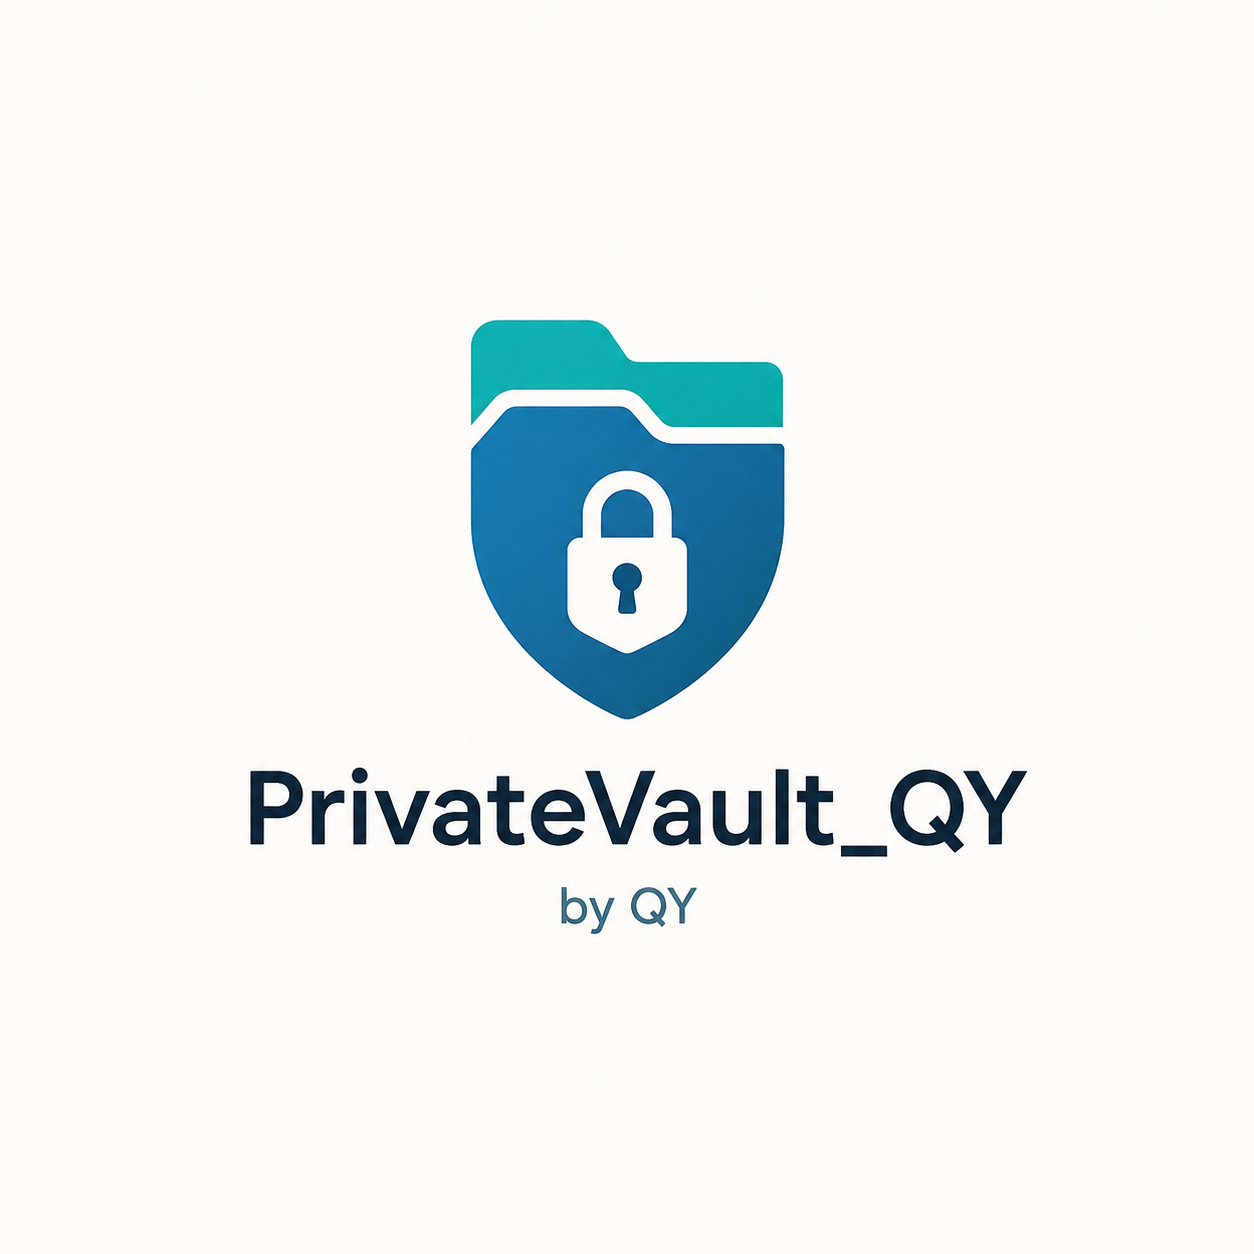
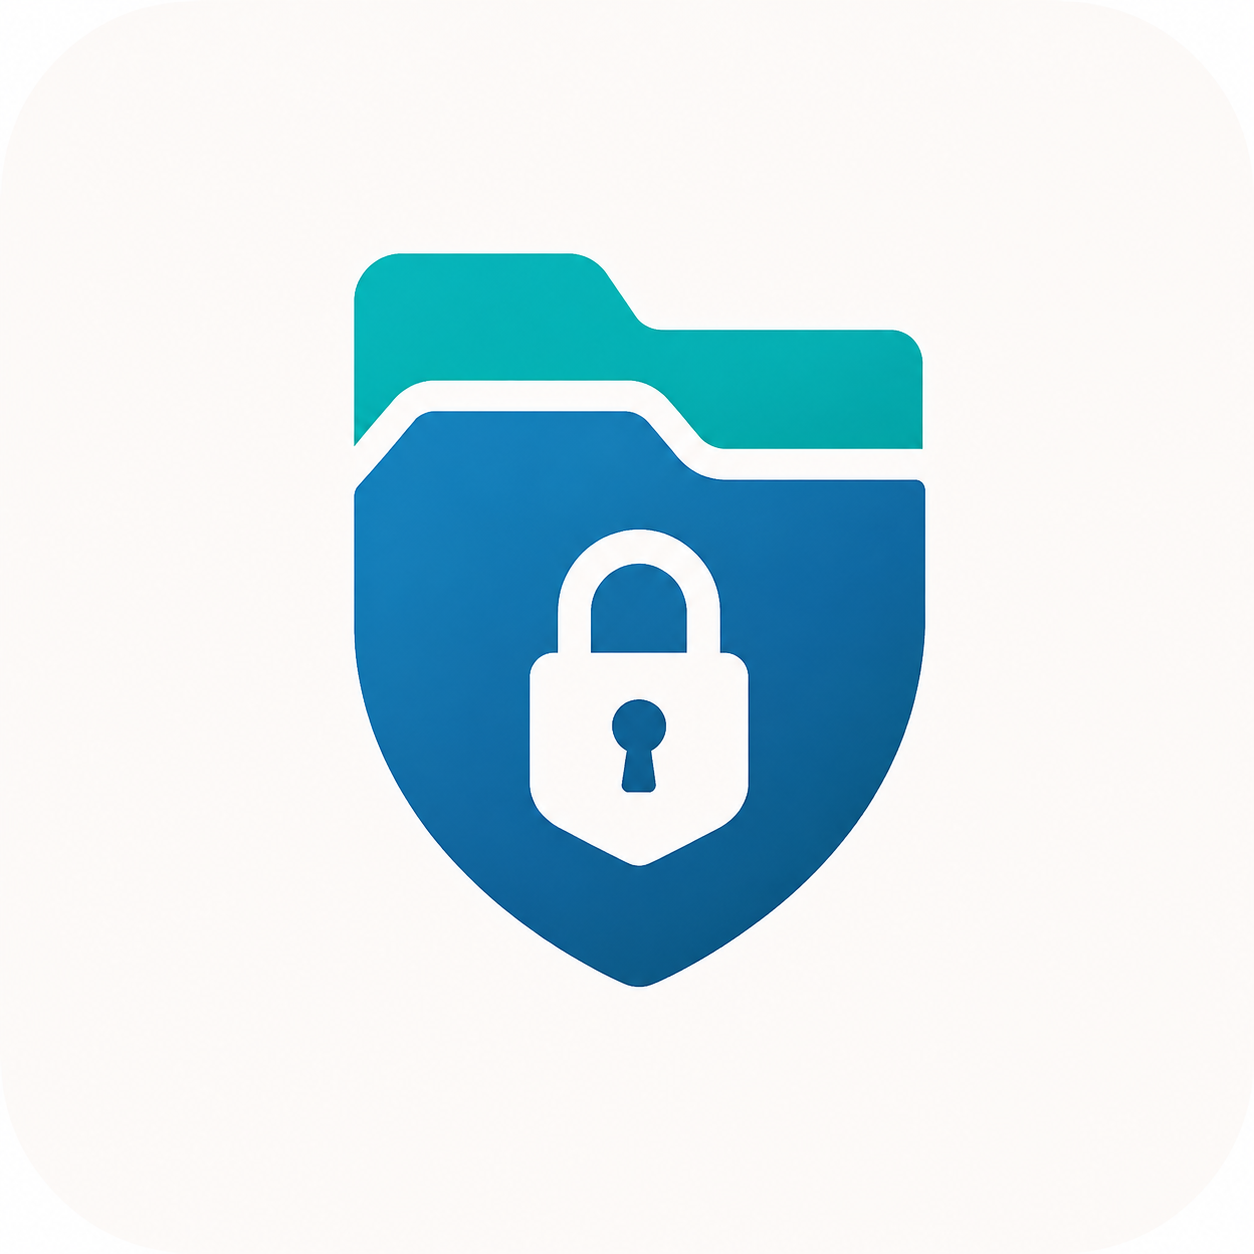
Refresh README and settings metadata

Changed region(s): [[0.1866, 0.1866, 0.8086, 0.8086]]

diff --git a/app/src/main/java/com/privatevault/ui/PrivateVaultApp.kt b/app/src/main/java/com/privatevault/ui/PrivateVaultApp.kt
@@ -1258,6 +1258,25 @@ private fun SettingsScreen() {
         MetadataCard(title = "系统应用锁", lines = listOf("本应用不内置 PIN。请在系统设置中启用应用锁、隐私锁或生物识别保护。"))
         MetadataCard(title = "安全边界", lines = listOf("当前版本使用 App 私有目录，不承诺文件级加密。"))
         MetadataCard(title = "截图", lines = listOf("后续可通过窗口安全标记禁止系统截图。"))
+
+        Spacer(modifier = Modifier.weight(1f))
+
+        Column(
+            horizontalAlignment = Alignment.CenterHorizontally,
+            modifier = Modifier.fillMaxWidth(),
+            verticalArrangement = Arrangement.spacedBy(4.dp)
+        ) {
+            Text(
+                text = "PrivateVault",
+                style = MaterialTheme.typography.bodyMedium,
+                color = MaterialTheme.colorScheme.onSurface.copy(alpha = 0.54f)
+            )
+            Text(
+                text = "作者 秋漾",
+                style = MaterialTheme.typography.bodySmall,
+                color = MaterialTheme.colorScheme.onSurface.copy(alpha = 0.38f)
+            )
+        }
     }
 }
 

diff --git a/README.md b/README.md
@@ -1,89 +1,158 @@
-<p align="center">
-  <img src="screenshots/1.jpg" width="200" />
-  <img src="screenshots/2.jpg" width="200" />
-  <img src="screenshots/3.jpg" width="200" />
-  <img src="screenshots/4.jpg" width="200" />
-</p>
+## Screenshots
 
-# PrivateVault
+<table>
+  <tr>
+    <td align="center" width="50%">
+      <img src="README.assets/1.jpg" width="300" />
+      <br />
+      <sub>片库管理</sub>
+    </td>
+    <td align="center" width="50%">
+      <img src="README.assets/2.jpg" width="300" />
+      <br />
+      <sub>收藏</sub>
+    </td>
+  </tr>
+  <tr>
+    <td align="center" width="50%">
+      <img src="README.assets/3.jpg" width="300" />
+      <br />
+      <sub>片库详情</sub>
+    </td>
+    <td align="center" width="50%">
+      <img src="README.assets/4.jpg" width="300" />
+      <br />
+      <sub>设置</sub>
+    </td>
+  </tr>
+</table>
 
-**你的手机相册，由你决定谁能看。**
 
-> 一个完全离线的 Android 私密媒体管理器——不注册、不联网、不存云端。
-> 把不想出现在相册里的内容放到这里，像管理私人片库一样整理它。
+
+
+# PrivateVault_QY
+
+**一个本地优先的 Android 私密媒体库。**
+
+> PrivateVault_QY 是一个完全离线的 Android 私密媒体管理器。
+> 它可以将你选中的图片迁移到 App 私有目录，并支持媒体库、标签、收藏、备注、搜索和导出。
+> 无账号、无云端、无服务器，数据只保存在你的设备本地。
 
 ---
 
 ## 为什么做这个
 
-手机相册是一个"公共区域"——借手机、投屏、分享截图时，总有一些内容你不想被看到。
+手机系统相册更像一个“公共区域”。
 
-PrivateVault 给你一个**真正私密的第二相册**。图片复制到 App 内部私有目录后，你可以选择**从系统相册中彻底删除原图**——相册干净了，内容也还安全地留在你的手机里。
+借手机、投屏、分享截图、选择图片时，总有一些内容你不希望直接暴露在系统相册里。
+
+PrivateVault_QY 提供一个本地私密空间：你可以将选中的图片复制到 App 内部私有目录，并在确认导入成功后选择从系统相册中移除原图。
+
+这样，系统相册保持干净，私密内容仍然保存在你的手机本地。
 
 ---
 
-## 一眼看全
+## 功能特性
 
-| | |
-|---|---|
-| 📚 **片库** | 以影片为单位组织内容，每个片库独立管理 |
-| 🖼️ **图片导入** | 复制保留原图，或者**迁移**——复制后删除原图，从相册彻底消失 |
-| ⭐ **收藏** | 星标一键收藏，独立 Tab 快速浏览 |
-| 🏷️ **标签** | 自定义标签，支持搜索和筛选 |
-| 🔗 **网盘链接** | 夸克 / 百度网盘 / 迅雷 / 磁力链接一把抓 |
-| 📝 **备注** | 随手记录整理状态、来源信息 |
-| 🔍 **搜索筛选** | 影片名搜索 + 标签组合筛选 |
-| 💾 **导出** | 随时将图片导出回系统相册 |
-| 🔐 **锁屏** | 切到后台自动锁定，任何密码即可进入 |
-| 📱 **零权限** | 不需要联网、不需要账号、不需要任何敏感权限 |
+| 功能                  | 说明                                                         |
+| --------------------- | ------------------------------------------------------------ |
+| 📚 **媒体库管理**      | 按媒体库组织内容，每个媒体库独立管理                         |
+| 🖼️ **图片导入 / 迁移** | 支持复制保留原图，也支持导入后请求删除系统相册原图           |
+| ⭐ **收藏**            | 星标收藏重要内容，独立入口快速查看                           |
+| 🏷️ **标签**            | 自定义标签，支持搜索和筛选                                   |
+| 📝 **备注**            | 为媒体条目记录整理状态、来源信息或补充说明                   |
+| 🔍 **搜索筛选**        | 支持名称搜索和标签组合筛选                                   |
+| 🔗 **外部链接管理**    | 可记录网盘链接、下载链接或其他来源链接；仅保存文本，不下载内容 |
+| 💾 **导出**            | 支持将图片导出回系统相册                                     |
+| 🔐 **锁屏入口**        | 支持切后台后进入锁屏页；PIN 持久化和生物识别仍在路线图中     |
+| 📱 **本地优先**        | 不需要账号、不上传文件、不依赖服务器                         |
 
 ---
 
 ## 快速开始
 
-用 Android Studio 打开项目，Sync Gradle，点击 Run。
+使用 Android Studio 打开项目，等待 Gradle Sync 完成后点击 Run。
 
-```
-要求：Android Studio Hedgehog 或更新、JDK 17+、SDK API 36
+```text
+要求：
+- Android Studio Hedgehog 或更新版本
+- JDK 17+
+- Android SDK API 36
 ```
 
 命令行构建：
 
 ```bash
-./gradlew :app:testDebugUnitTest   # 单测
-./gradlew assembleDebug            # 打 APK
+./gradlew :app:testDebugUnitTest
+./gradlew assembleDebug
 ```
 
 ---
 
 ## 项目结构
 
-```
+```text
 app/src/main/java/com/privatevault/
 ├── core/      纯 Kotlin 领域模型，零 Android 依赖
-├── data/      Room 持久化（DAO / Store / Repository）
-├── media/     文件导入 / 导出 / 删除原图
-├── ui/        Jetpack Compose 界面 + ViewModel
+├── data/      Room 持久化：DAO / Store / Repository
+├── media/     文件导入、导出、原图删除请求
+├── ui/        Jetpack Compose 界面与 ViewModel
 └── MainActivity.kt
 ```
 
+---
+
 ## 技术栈
 
-Jetpack Compose · Material 3 · Room + KSP · Coil · Coroutines Flow · JUnit 4
+* Kotlin
+* Jetpack Compose
+* Material 3
+* Room + KSP
+* Coil
+* Coroutines Flow
+* JUnit 4
 
 ---
 
 ## 实现状态
 
-**已完成：** 片库 CRUD · 影片增删 · 图片导入/迁移 · 系统确认删原图 · Room 全量落库 · 链接 CRUD · 标签 CRUD · 收藏 · 搜索筛选 · 全屏预览 · 图片导出 · 种子数据 · 返回栈导航
+已完成：
 
-**路线图：** PIN 持久化 · 生物识别 · 文件加密
+* 媒体库 CRUD
+* 媒体条目增删
+* 图片导入 / 迁移
+* 系统确认删除原图
+* Room 本地持久化
+* 外部链接 CRUD
+* 标签 CRUD
+* 收藏
+* 搜索筛选
+* 全屏预览
+* 图片导出
+* 种子数据
+* 返回栈导航
+
+路线图：
+
+* PIN 持久化
+* 生物识别解锁
+* 文件级加密
+* 私密备份包导出
+* 批量操作优化
 
 ---
 
-## 安全声明
+## 隐私与安全说明
 
-当前版本文件存储在 App 私有目录中，其他 App 无法访问，但**未做文件级加密**。如果你需要强加密方案，欢迎参与或关注后续版本。
+PrivateVault_QY 是一个本地优先的私密媒体管理工具。
+
+当前版本中，导入文件会保存到 App 私有目录，其他普通 App 无法直接访问这些文件。但当前版本尚未实现文件级加密。
+
+如果你需要更强的安全模型，请关注后续版本中的文件加密和生物识别功能。
+
+重要提醒：
+
+卸载 App 前，请先导出你需要保留的文件。App 卸载可能会清除 App 私有目录中的数据。
 
 ---
 
@@ -95,4 +164,6 @@ MIT
 
 ## 贡献
 
-欢迎 Issue 和 PR。这是个人项目，建议先开 Issue 讨论方向，避免重复劳动。
+欢迎提交 Issue 和 PR。
+
+这是一个个人项目。如果你想贡献较大的功能，建议先开 Issue 讨论设计方向，避免重复开发。

diff --git a/设计.md b/设计.md
@@ -157,6 +157,7 @@ App 级加锁交给手机系统的应用锁、隐私锁或生物识别能力。P
 2. 是否允许截图
 3. 存储占用
 4. 隐私说明
+5. 页面底部标注作者：秋漾
 
 ## 4. 返回规则
 